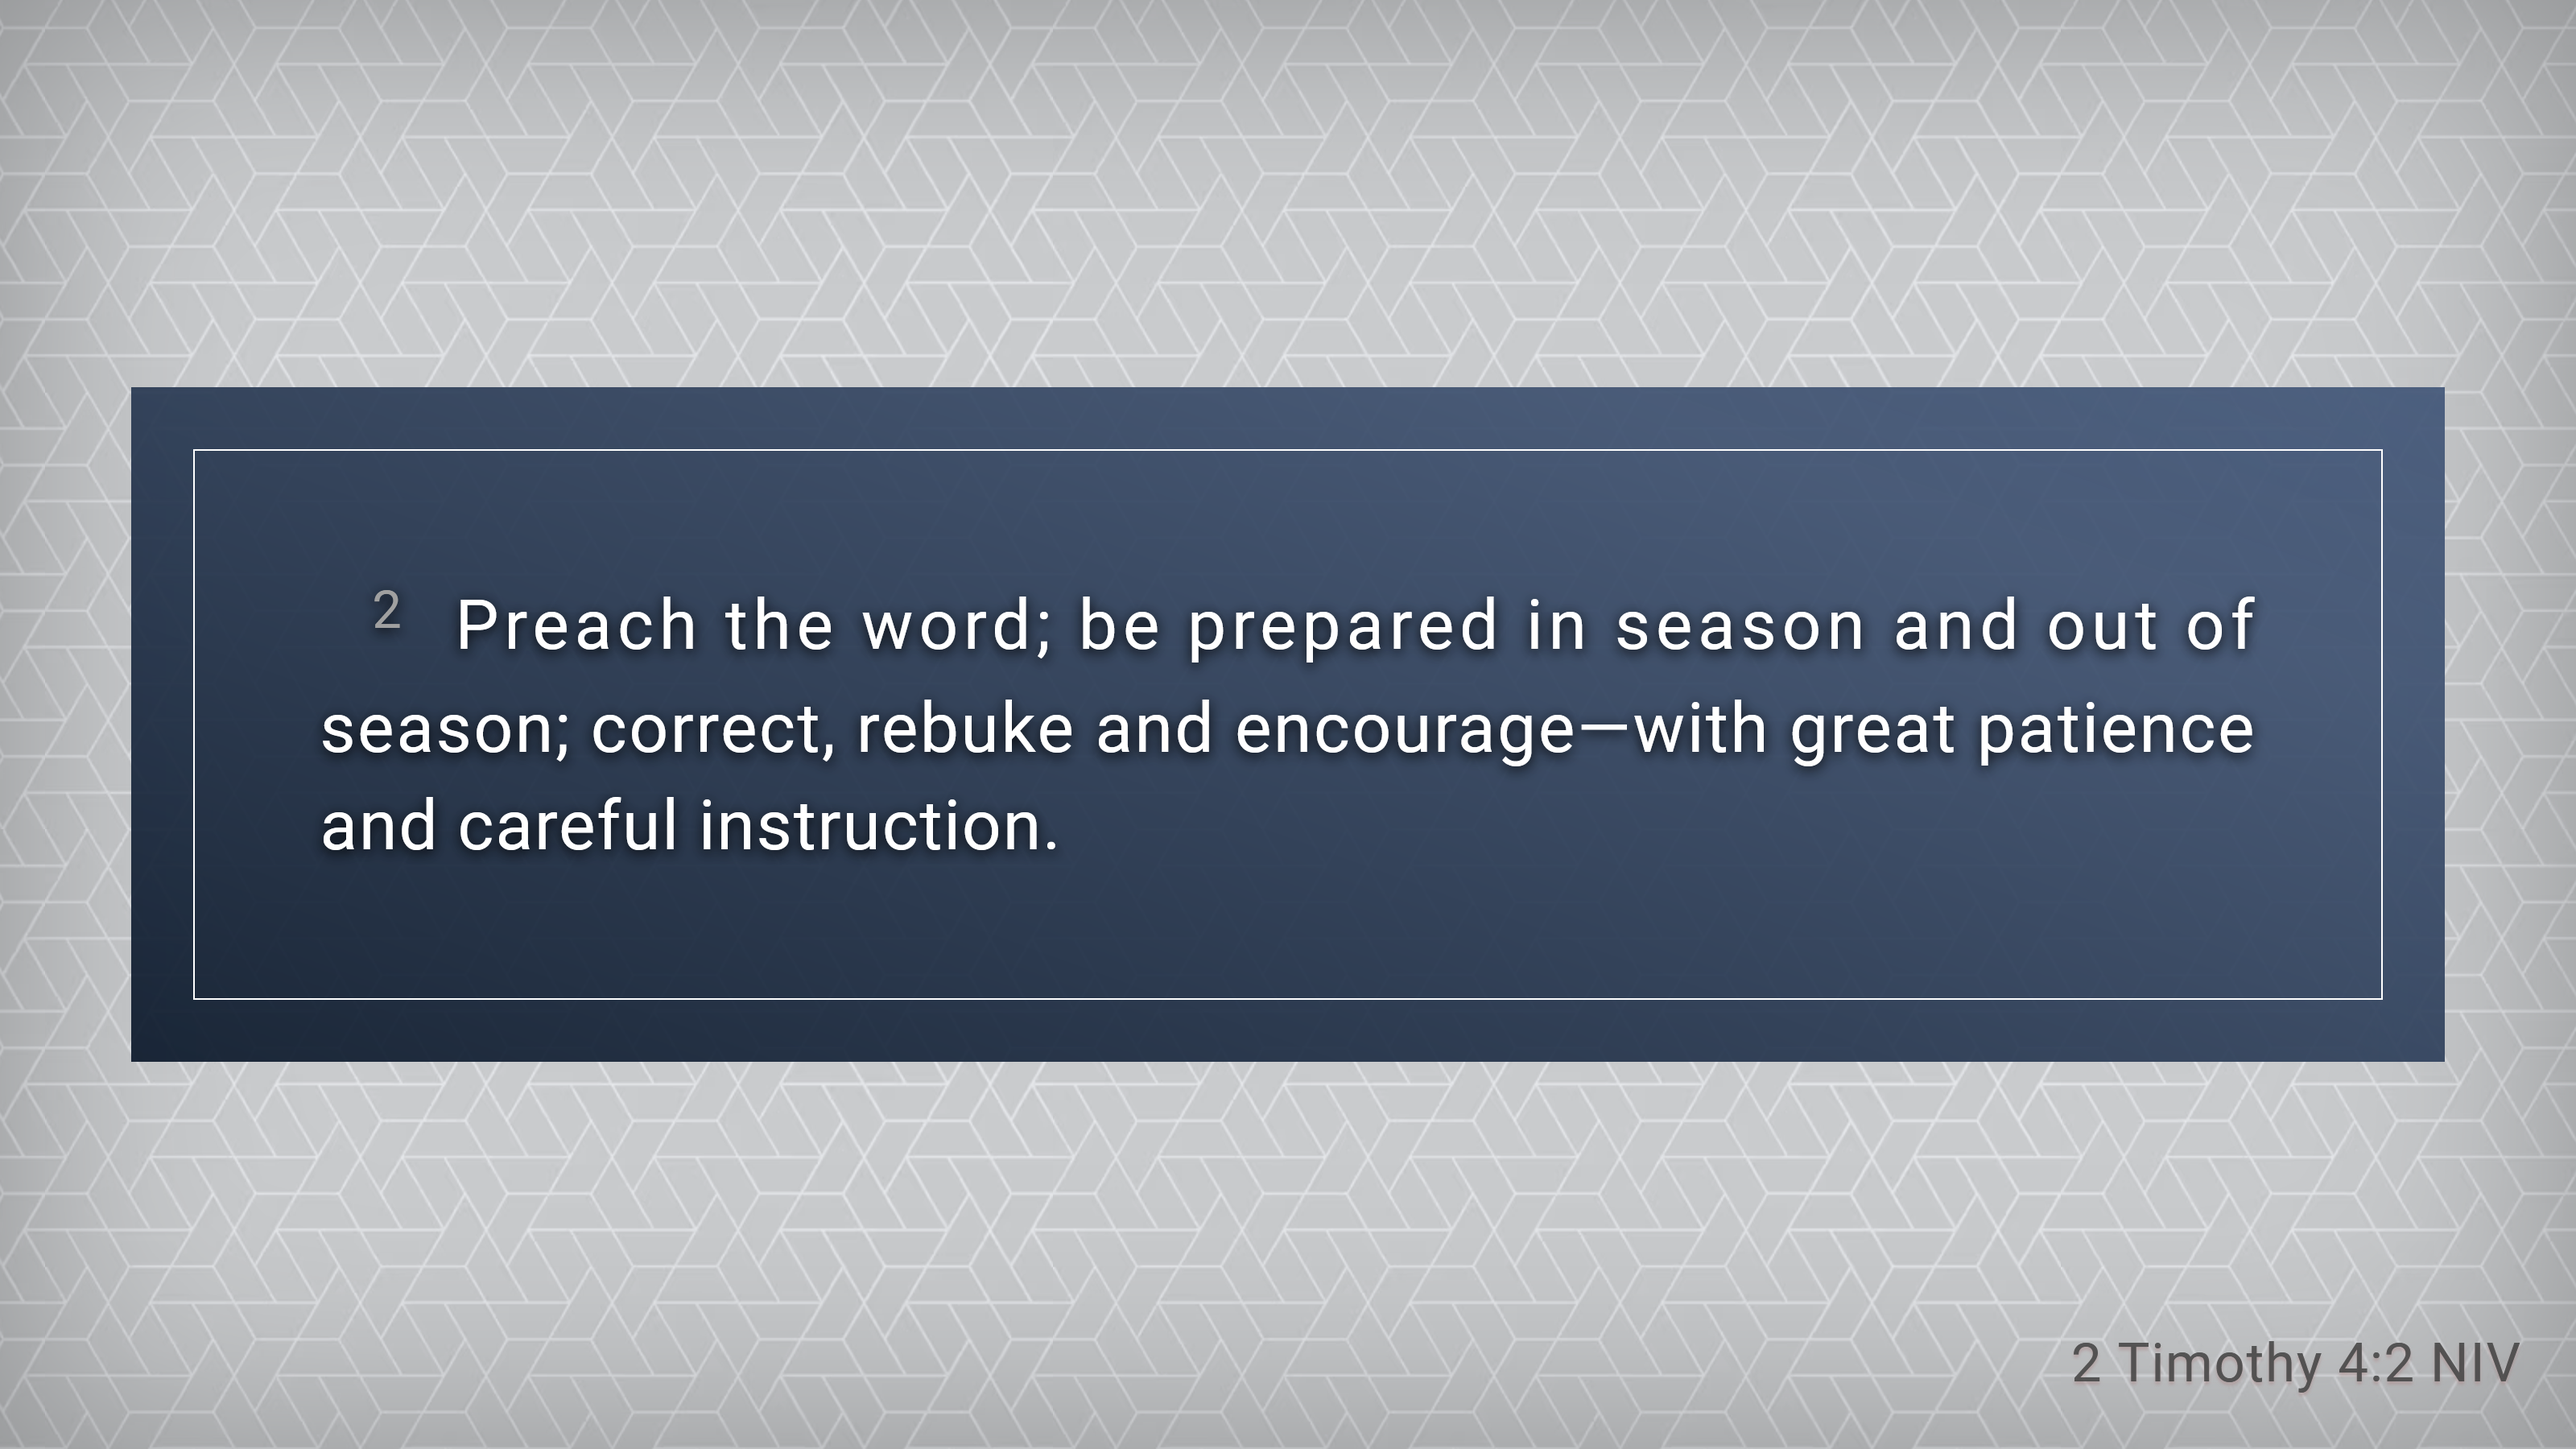
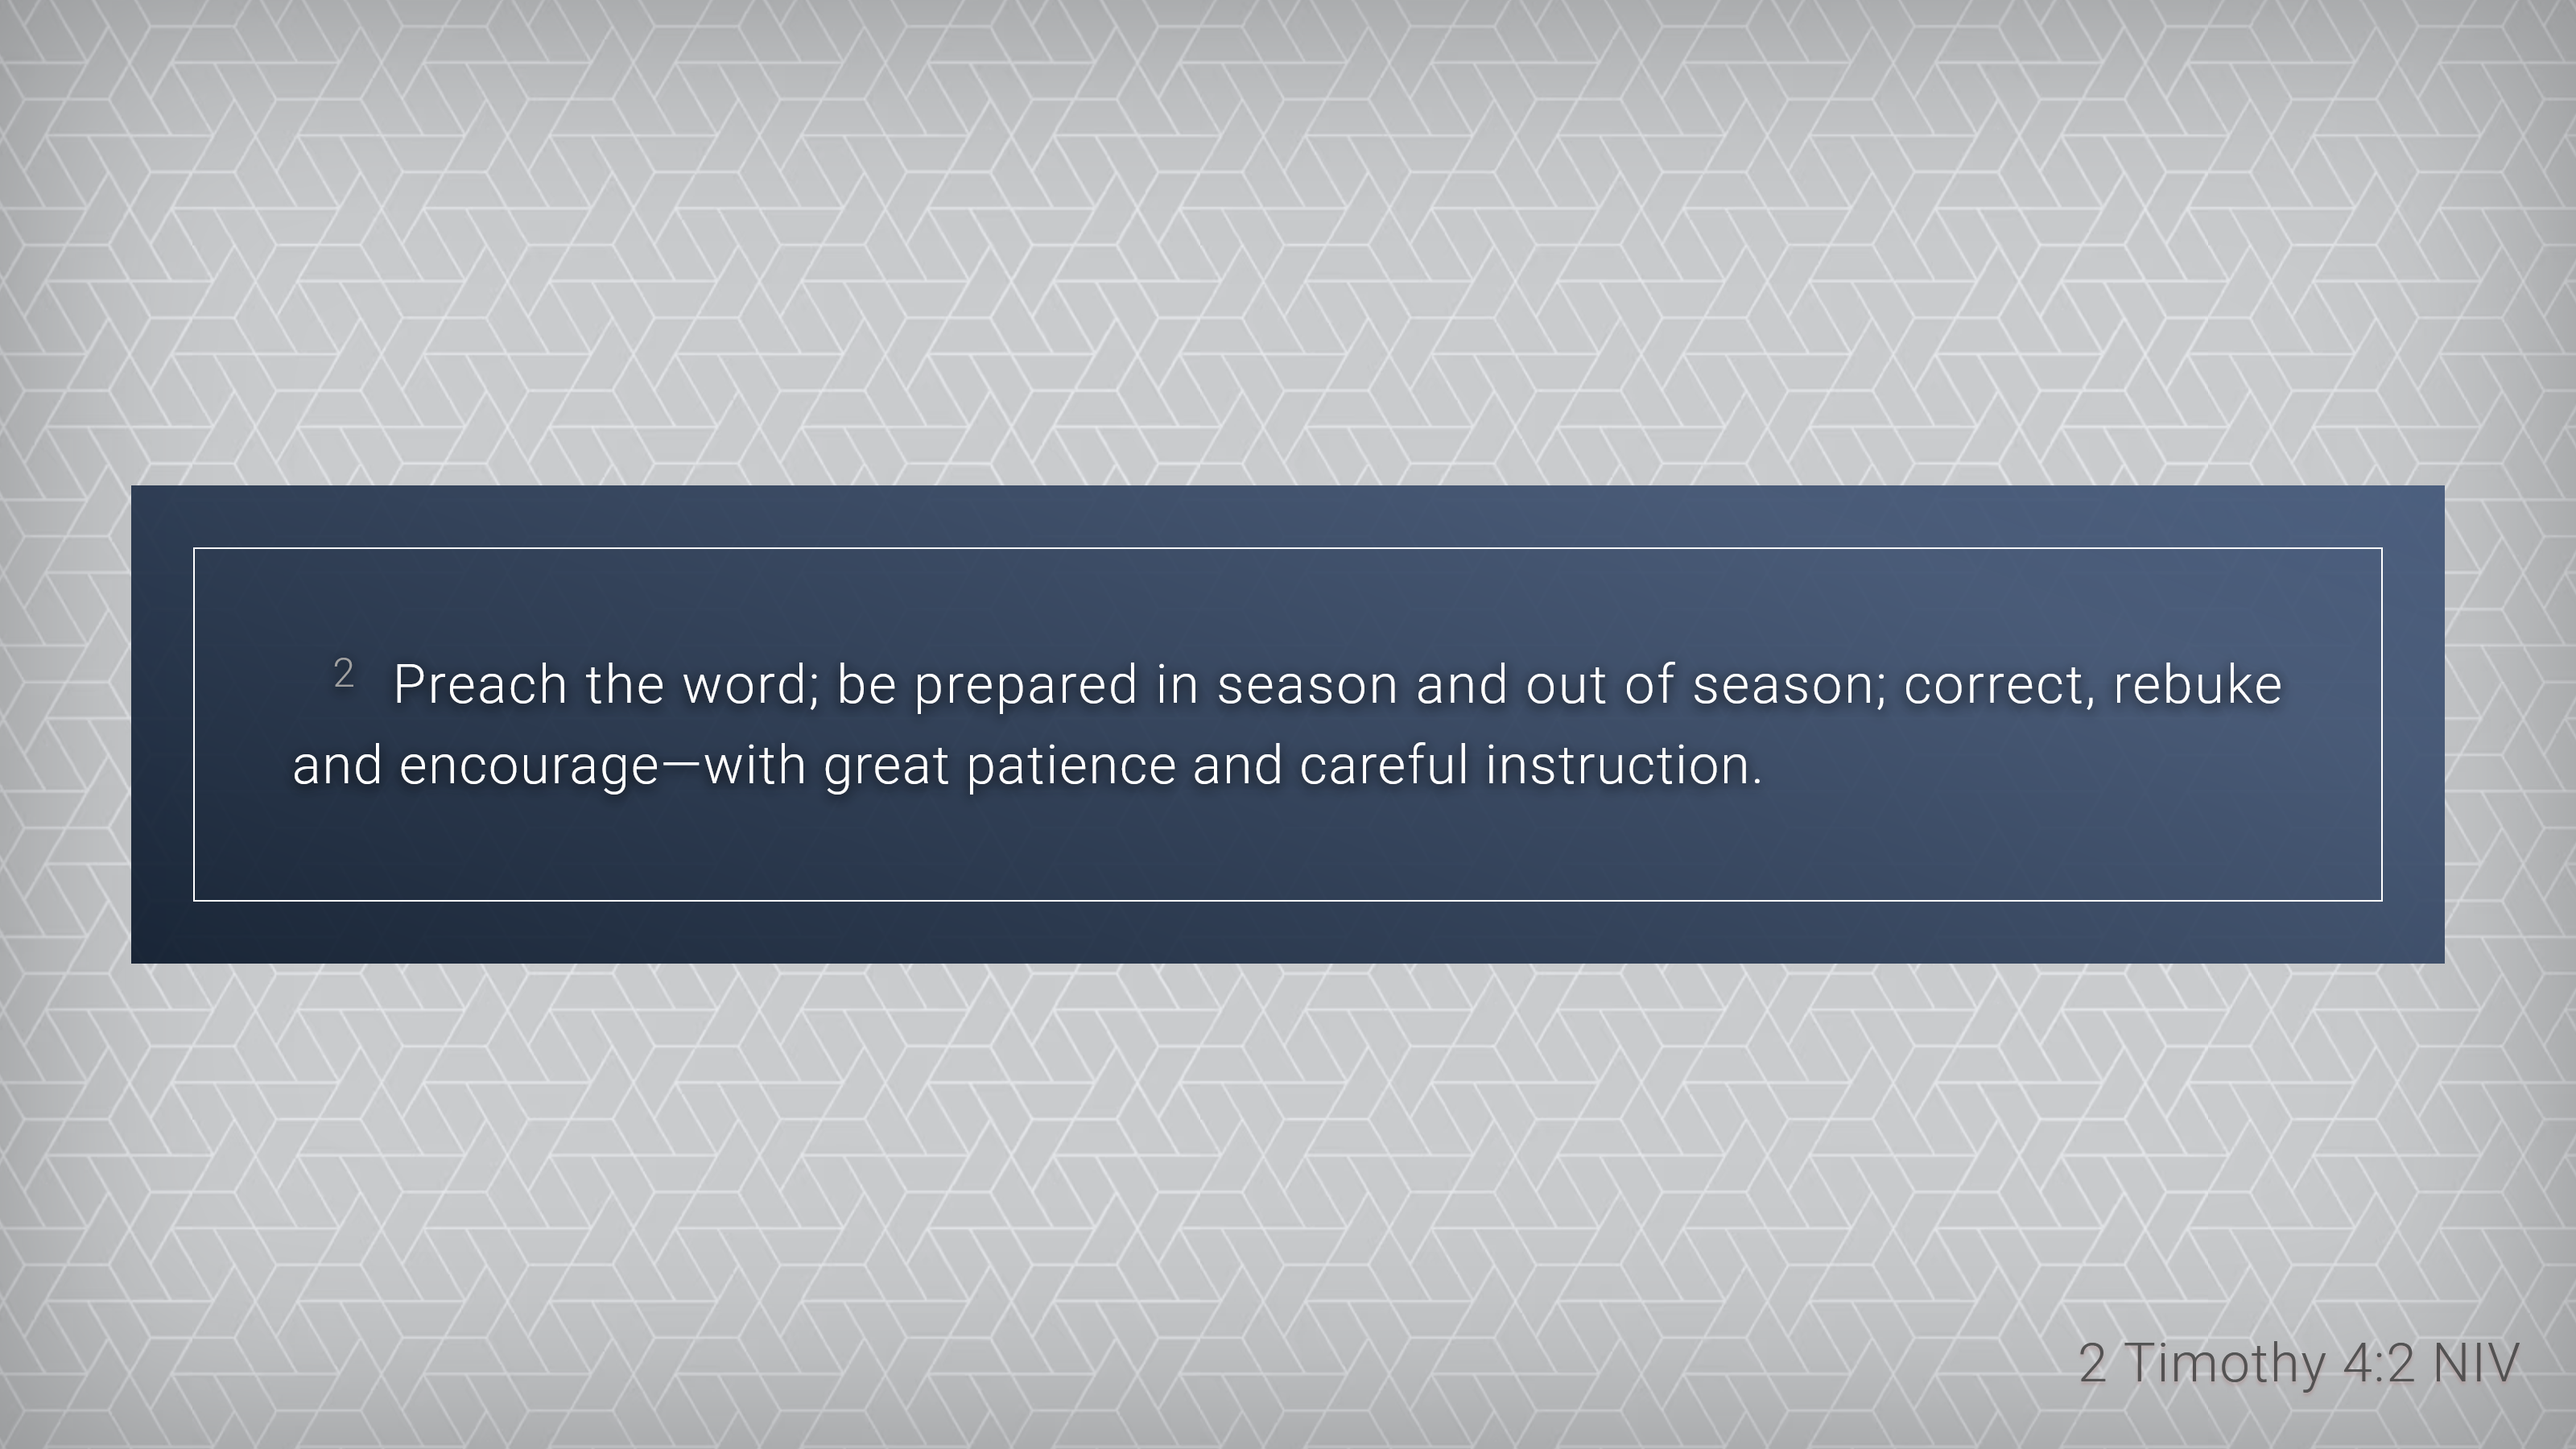
FIX - Clear background not working properly

diff --git a/backgrounds/gray-pattern.css b/backgrounds/gray-pattern.css
@@ -8,9 +8,10 @@
     outline-style: solid;
 }
 */
-
-#@import url(https://fonts.googleapis.com/css?family=Sedgwick+Ave+Display:ital,wght@0,900;1,400);
-#@import url(https://fonts.googleapis.com/css2?family=Roboto:wght@100&display=swap);
+/*
+@import url(https://fonts.googleapis.com/css?family=Sedgwick+Ave+Display:ital,wght@0,900;1,400);
+@import url(https://fonts.googleapis.com/css2?family=Roboto:wght@100&display=swap);
+*/
 @import url(https://fonts.googleapis.com/css2?family=Roboto:wght@300&display=swap);
 
 
@@ -32,7 +33,7 @@
 }
 
 .frame .inframe {
-	font-size: 90%;
+	font-size: 70%;
 	padding: 1.8em;
 	border: 0.03em solid white;
 }

diff --git a/theme.js b/theme.js
@@ -15,4 +15,5 @@ function loadBackground(backgroundName) {
 
 function clearBackground() {
 	enable("blackground");
+	loadBackground("black");
 }
